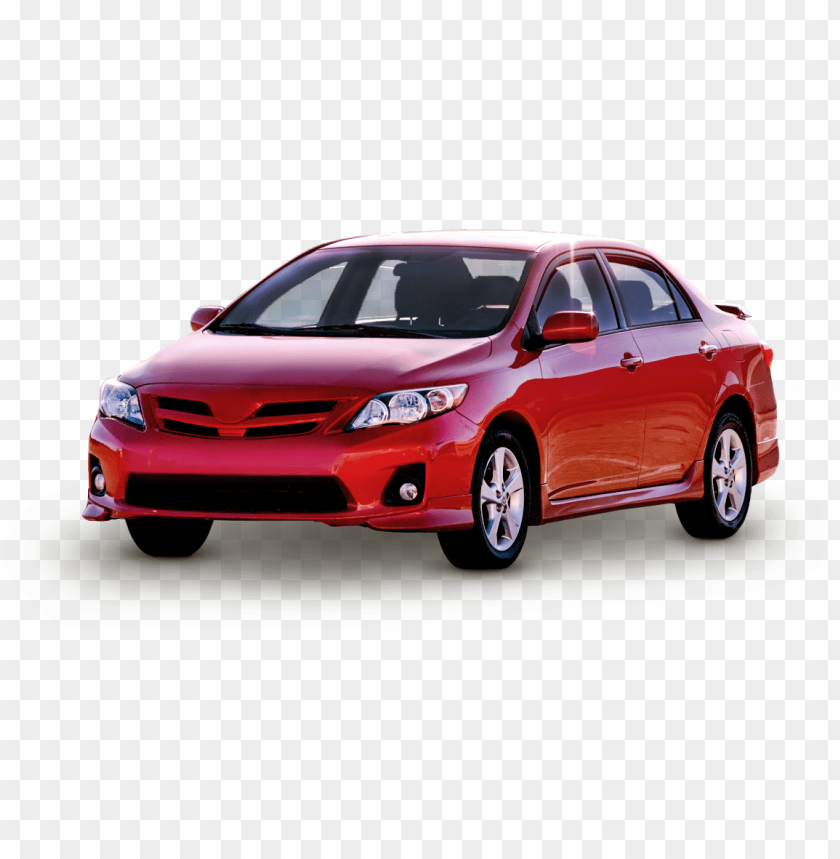
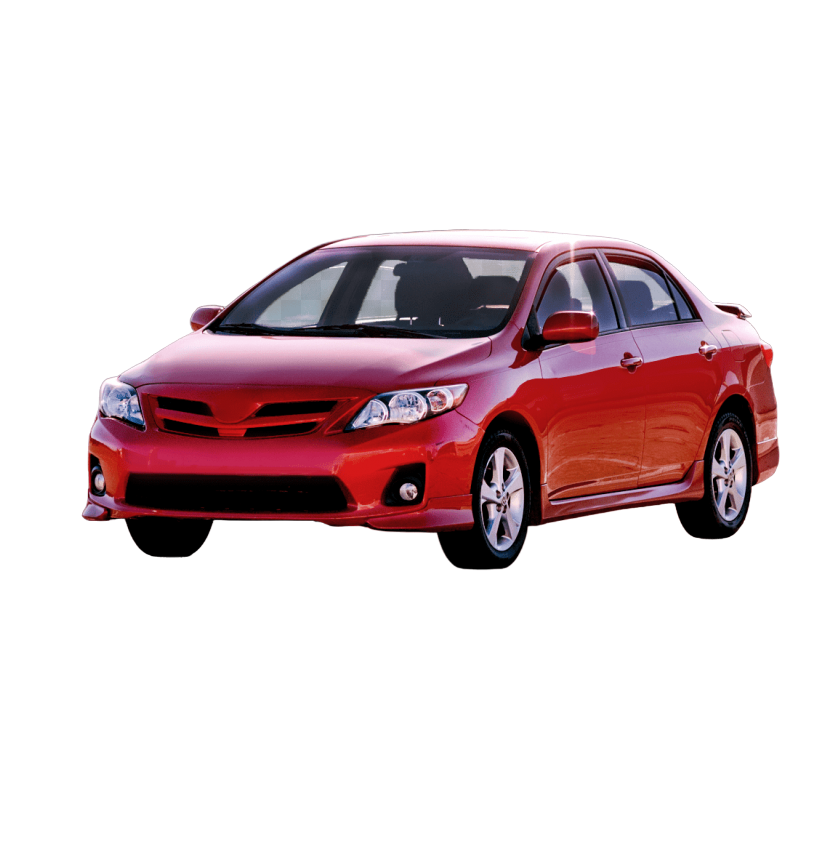
add rotating car at the top

Changed region(s): [[0.031, 0.5751, 0.9595, 0.7264]]

diff --git a/src/components/Hero.js b/src/components/Hero.js
@@ -1,38 +1,53 @@
-import React, { useState, useEffect} from 'react';
+import React, { useState, useEffect } from 'react';
 import Header from './Header';
 import './Hero.css';
-import topBackImage from '../images/top-background-logo.png';
-import image1 from '../images/cars/0.jpg'
+import topBackImage from '../images/footer-card-image.png';
 
 export default function Hero({ onClickJoin }) {
-
-    const [rotationAngle, setRotationAngle] = useState(0);
+    const [rotationAngle, setRotationAngle] = useState(1);
 
     useEffect(() => {
         const intervalId = setInterval(() => {
-            setRotationAngle((prevAngle) => (prevAngle + 5) % 80);
-          }, 300);
+            setRotationAngle((prevAngle) => {
+                if (prevAngle === 72) {
+                    return 1;
+                }
+                else {
+                    return prevAngle + 1;
+                }
+            });
+        }, 50);
         return () => clearInterval(intervalId);
     }, []);
 
     const carStyle = {
-        transition: 'transform 0.5s ease-in-out',
+        transition: 'all 0.5s ease-in-out',
+        position: 'absolute',
+        top: '0',
+        bottom: '0',
+        left: '0',
+        right: '0'
     };
 
-    const image = require(`../images/cars/${rotationAngle}.jpg`)
+    const image = require(`../images/rotating-cars/${rotationAngle}.png`);
+
     return (
         <div className='Hero'>
             <Header onClickJoin={onClickJoin} />
             <div className='hero-image-background'>
-                <img
-                    src={image}
-                    alt="Rotating Car"
-                    className="rotating-car"
-                    style={carStyle}
-                />
+                <div style={{
+                    position: 'relative'
+                }}>
+                    <img src={topBackImage} alt='backImage' />
+                    <img
+                        src={image}
+                        alt="Rotating Car"
+                        className="rotating-car"
+                        style={carStyle}
+                    />
+                </div>
+
             </div>
         </div>
-    )
+    );
 }
-
-

diff --git a/src/components/Hero.css b/src/components/Hero.css
@@ -10,7 +10,7 @@
 }
 
 .hero-image-background {
-    width: 100%;
+    width: fit-content;
     text-align: center;
 }
 
